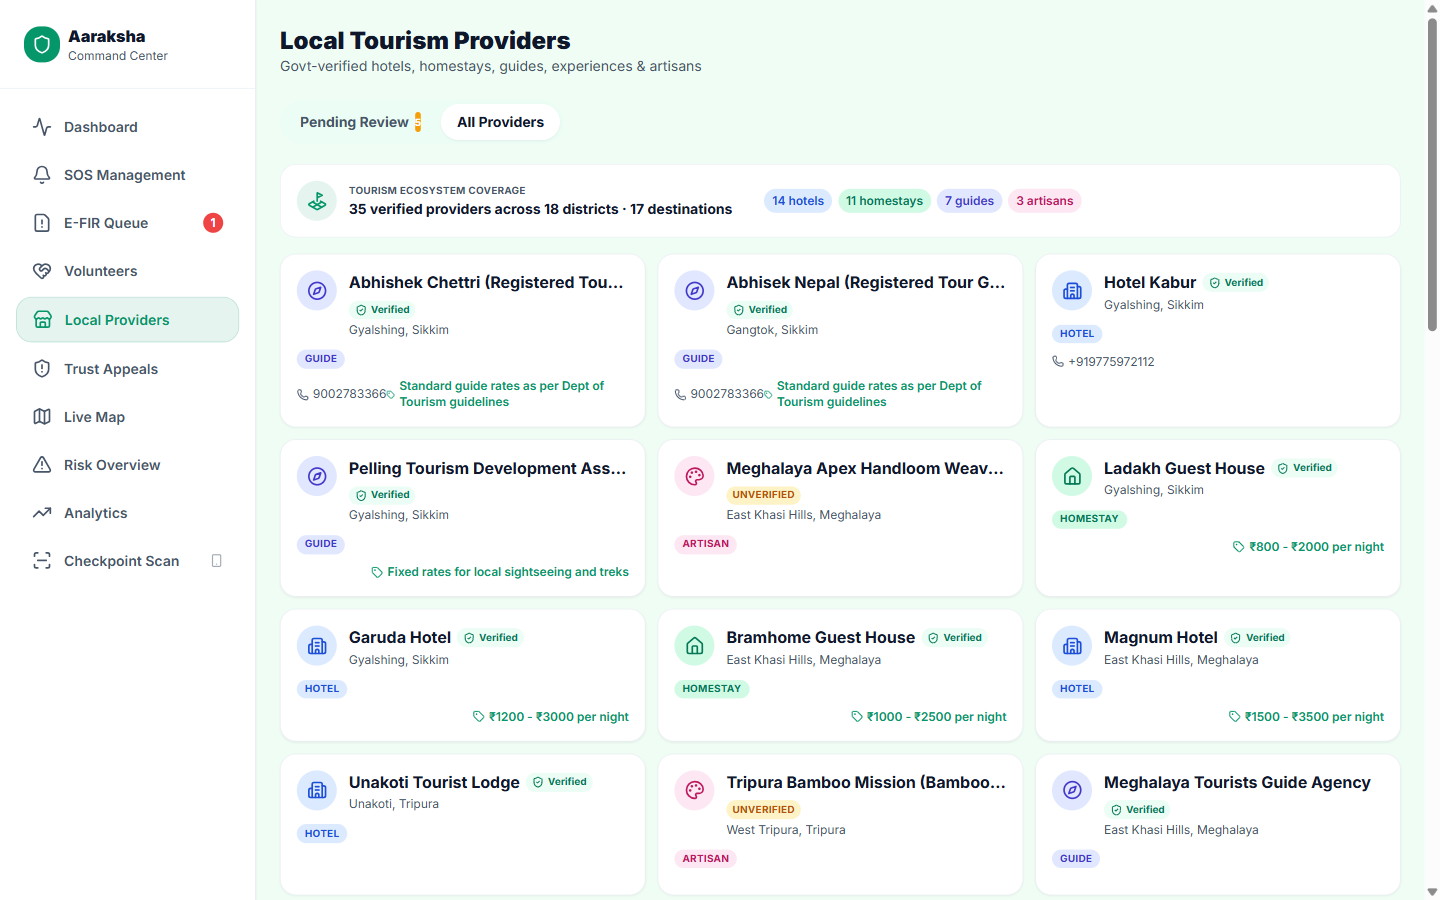
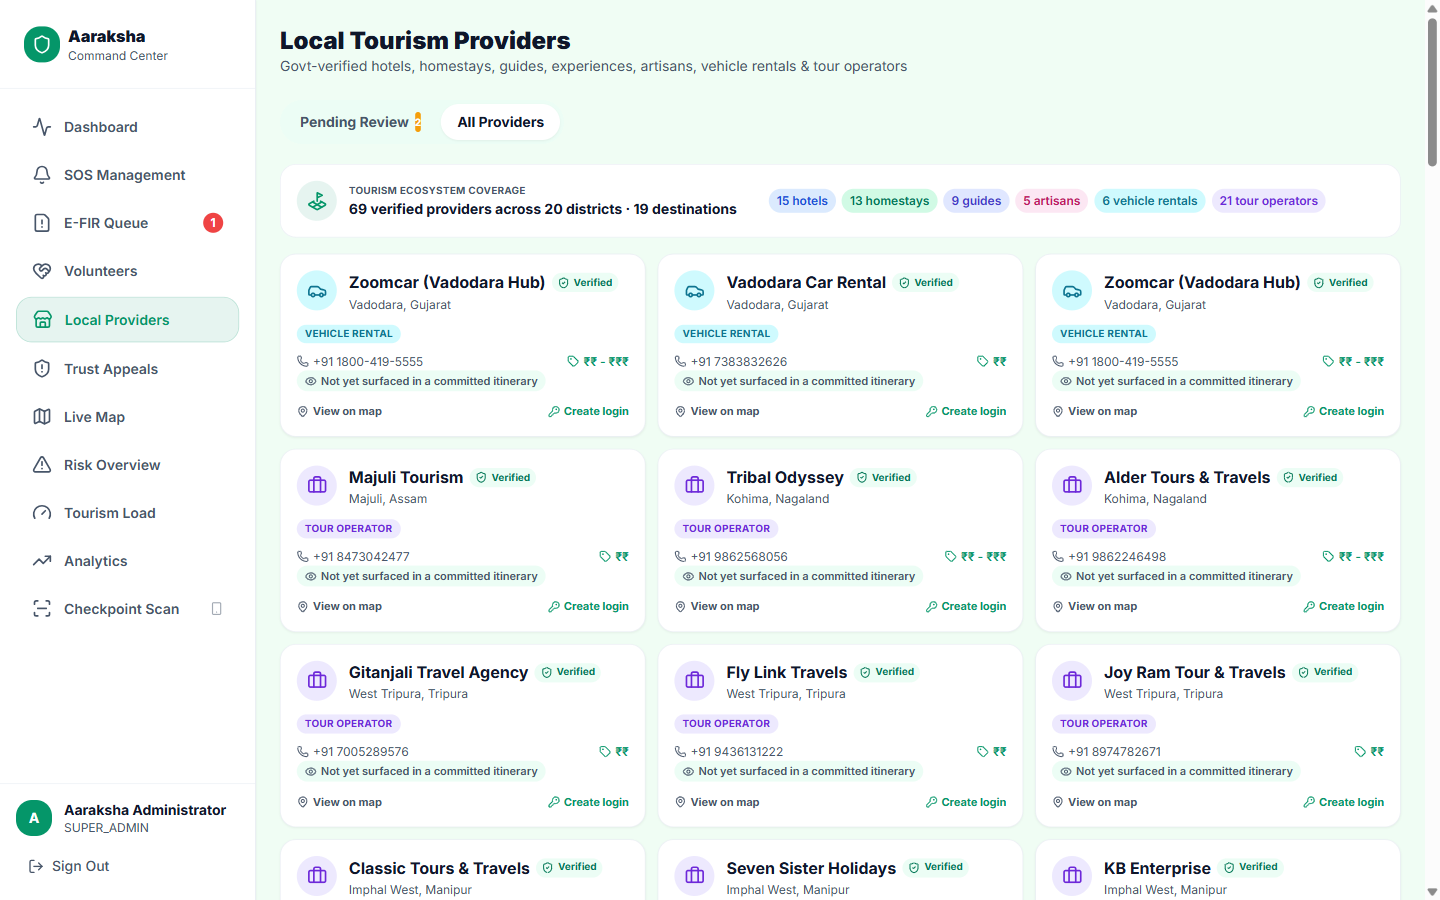
docs: make the README scannable, not bookish, and refresh screenshots
Collapses the seven densest prose blocks (research/prior-art, digital
ID, risk model, AI assistant, tourism pillar, routing engine, NTN)
behind <details> -- headings, thesis blockquotes, mermaid diagrams
and tables all stay visible by default; the paragraph-heavy
explanations are now opt-in reads instead of forced scroll. Embeds
the real system-architecture diagram inline instead of only linking
it, and fixes its stale text (portal name, table/migration counts).

Replaces three screenshots that no longer matched the live app: the
local-operator card redesign (collapsed-by-default, category-colored
borders), the Aaraksha Sahayak auth screen (post-rebrand), and the
govt Local Tourism Providers roster (now showing the real 69-provider
Tourism Ecosystem Coverage summary with category chips).

diff --git a/README.md b/README.md
@@ -100,6 +100,9 @@ model, not three disconnected claims stapled to one slide.
 
 ## 🔬 Research & prior art — where Aaraksha sits
 
+<details>
+<summary><b>Click to expand</b> — competitive research against real SIH25002 submissions and market alternatives, plus a claim-by-claim comparison table</summary>
+
 Aaraksha's origin point is real and worth stating plainly: it began as an answer to **SIH25002 —
 "Smart Tourist Safety Monitoring & Incident Response System using AI, Geo-Fencing, and
 Blockchain-based Digital ID,"** the Ministry of Development of North Eastern Region's problem
@@ -147,6 +150,8 @@ has to *operate* the system, not just use it. That's the bar this comparison is 
 | "Govt ID verified" meaning a regex checked the digit count | The actual **Verhoeff checksum** — the real algorithm UIDAI uses to generate an Aadhaar number's 12th digit — run client-independent, server-side, at registration |
 | Privacy as a paragraph in a slide deck | Working **DPDP Act 2023 data rights** — a tourist can view exactly what's collected and why, export every record held about them as a real file download, and request deletion, which anonymizes their row in place (never a raw `DELETE`, so legally-retainable SOS/E-FIR history survives) and is refused automatically while an open SOS or E-FIR exists |
 | A UI that works until an accessibility or screen-reader pass is requested | A **WCAG 2.1 AA / GIGW 3.0 accessibility pass** on the government dashboard, not left as an afterthought for a public-sector system |
+
+</details>
 
 ---
 
@@ -295,6 +300,9 @@ has to *operate* the system, not just use it. That's the bar this comparison is 
 
 ## 🔗 Verifiable Digital ID — the Journey Integrity Hash
 
+<details>
+<summary><b>How the chain is built, and why it's real</b> — click to expand</summary>
+
 "Blockchain-based Digital ID" is where this project started — SIH25002's own phrasing — and it
 stayed in scope even after moving to the self-defined Student Innovation category, because the
 research above turned up the same pattern repeatedly: most public implementations of that exact
@@ -351,12 +359,17 @@ The hash changes exactly once, exactly when a real event happens, and is byte-fo
 deterministic on every subsequent fetch — the two properties that make a hash chain actually
 mean something instead of just sounding like it does.
 
+</details>
+
 ---
 
 ## 🤖 A real trained model — the Predictive Risk Score
 
 > **Not a prompt. Not an API call to someone else's model. A model *we* wrote, *we* trained, and
 > *we* can show you the loss curve for.**
+
+<details>
+<summary><b>The model, the training run, and the benchmark</b> — click to expand</summary>
 
 Gemini in this platform is deliberately never asked to score or decide anything — it only
 explains an already-computed number in plain language (see the AI Safety Briefing below), the
@@ -395,6 +408,8 @@ risk-grounded labels should produce, not a random or overfit result. Every predi
 the govt Risk Overview page is explainable down to its top four contributing features, live, not
 just a bare percentage — reproduce the whole run yourself with `npm run train:risk-model`.
 
+</details>
+
 ---
 
 ## 🧭 AI Travel Assistant — plan, adjust, and track a journey
@@ -403,6 +418,9 @@ just a bare percentage — reproduce the whole run yourself with `npm run train:
 > explains, it never decides.** Every cost, duration, and safety number a tourist sees came out of
 > a deterministic scorer this team wrote — Gemini's only job is to narrate a number that already
 > exists, in plain language, never to invent or adjust one itself.
+
+<details>
+<summary><b>The full six-step pipeline, dataset provenance, and the deterministic-cost guarantee</b> — click to expand</summary>
 
 A floating assistant (bottom-right, every tourist screen) turns "plan a Northeast India trip" from
 a multi-hour research task — the actual problem this feature targets — into a single conversation,
@@ -495,9 +513,14 @@ states currently have 2–3 sourced destinations and at least one sourced intra-
 | 🛣 Route data | Curated legs between destinations, multiple modes per pair where sourced; uncurated pairs get a flagged haversine estimate | `typical_routes`, `travelPlanner.repository.js#findRoutesBetween`/`#findRoutesAmong` |
 | 📚 Dataset provenance | Multi-agent curation spec, Tier A/B/C source policy, required `source` column | [Data Curation](./docs/data-curation.md), migration `026_travel_data_provenance` |
 
+</details>
+
 ---
 
 ## 🏨 Local Tourism Providers — the tourism-industry pillar
+
+<details>
+<summary><b>The trust pipeline, the numbers, and the PS 26204 answer</b> — click to expand</summary>
 
 SIH PS 26204 asks for a solution that can *"boost the current situation of the tourism industries
 including hotels, travel and others."* The AI Travel Assistant above answers "travel." This is
@@ -543,6 +566,8 @@ story and self-reported sustainability tags, added across two independently spot
 rounds. Every citation is independently checkable — official OSM node/way IDs, or a named
 government department page — the full sourcing discipline, including one caught and corrected
 fabrication left in the record rather than quietly fixed, is in [Data Curation](./docs/data-curation.md).
+
+</details>
 
 <p align="center">
   <img src="./docs/screenshots/govt-local-operators.png" alt="Govt Command Center Local Tourism Providers page" width="80%">
@@ -645,6 +670,9 @@ loops drifting out of sync.
 > wrapped around a free public service: throttled requests, a straight-line degrade path, and a
 > disclosed answer for the one thing OSRM's public instance genuinely can't see — live traffic.
 
+<details>
+<summary><b>How the throttling, fallback, and delay-detection actually work</b> — click to expand</summary>
+
 Every live map in this system — tourist, rescuer, guardian — calls the public OSRM demo server
 directly from the browser (`router.project-osrm.org/route/v1/driving/...`, no API key, nothing to
 configure) and asks for the `driving` profile. OSRM answers that query using **Contraction
@@ -685,6 +713,8 @@ conditions it structurally cannot see — it detects when that's likely happenin
 | 🧭 Delay honesty | Elapsed time vs. original ETA, 1.6× margin, triggers a Google Maps handoff suggestion | `ActiveJobPage.tsx`, `RescueTrackingCard.tsx`, guardian `TrackingPage.tsx` |
 | 📡 Live cross-portal signal | Rescuer's "Navigate" toggle broadcasts a real-time pill to tourist + guardian | `RESCUER_NAVIGATING_STATE` socket event |
 
+</details>
+
 ---
 
 ## 🛰 NTN — a satellite fallback transport
@@ -694,6 +724,9 @@ conditions it structurally cannot see — it detects when that's likely happenin
 > 3GPP Release-17 NTN (Non-Terrestrial Network / direct-to-device satellite), sitting behind the
 > exact same SOS pipeline the manual button uses, so the system can demonstrate — honestly, today —
 > how it would behave if a real NTN modem existed on the device.
+
+<details>
+<summary><b>What's real vs. simulated, and the pipeline it shares with a manual SOS</b> — click to expand</summary>
 
 NE India and Kashmir have real terrestrial dead zones — the entire reason Aaraksha exists. 3GPP
 Release-17 direct-to-device NTN is a real, near-term answer to that: Apple's Emergency SOS via
@@ -739,6 +772,8 @@ verifiable is the pipeline shown above, working end-to-end, live.
 | 🗂 Audit trail | Every attempt, delivered or failed, is an append-only row | `ntn_messages` (migration `024_ntn_messages`) |
 | 🖥 Live ops visibility | Signal/latency/loss and recent activity, ticking off a socket event | `NTN_CHANNEL_STATUS`, `NTNPanel.tsx` on the govt dashboard |
 | 🔮 Real-hardware integration path | Documented future work, not attempted here: OpenAirInterface + Open5GS in RFsimulator mode, behind the same `ntn.service.js` boundary | Out of scope for this pass |
+
+</details>
 
 ---
 
@@ -813,6 +848,10 @@ are in [`docs/screenshots/`](./docs/screenshots/), free to drop straight into sl
 ---
 
 ## 🏗 Architecture at a glance
+
+<p align="center">
+  <img src="./docs/architecture/system-architecture.png" alt="Aaraksha system architecture — four portals, one Express/PostgreSQL backend, realtime Socket.IO spine, offline SMS path, simulated NTN path" width="100%">
+</p>
 
 **Backend stack:** Node.js ≥20 · Express · PostgreSQL (raw `pg`, zero ORM) · JWT + bcrypt ·
 Socket.IO · node-cron (DMS checks every minute, anomaly detection every minute, weather+TSI
